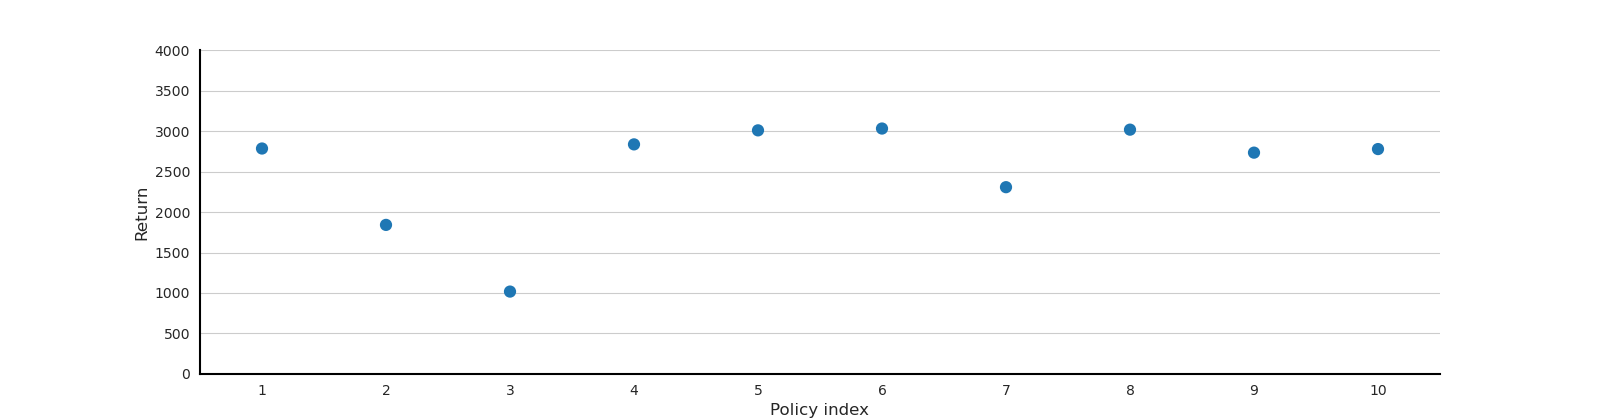
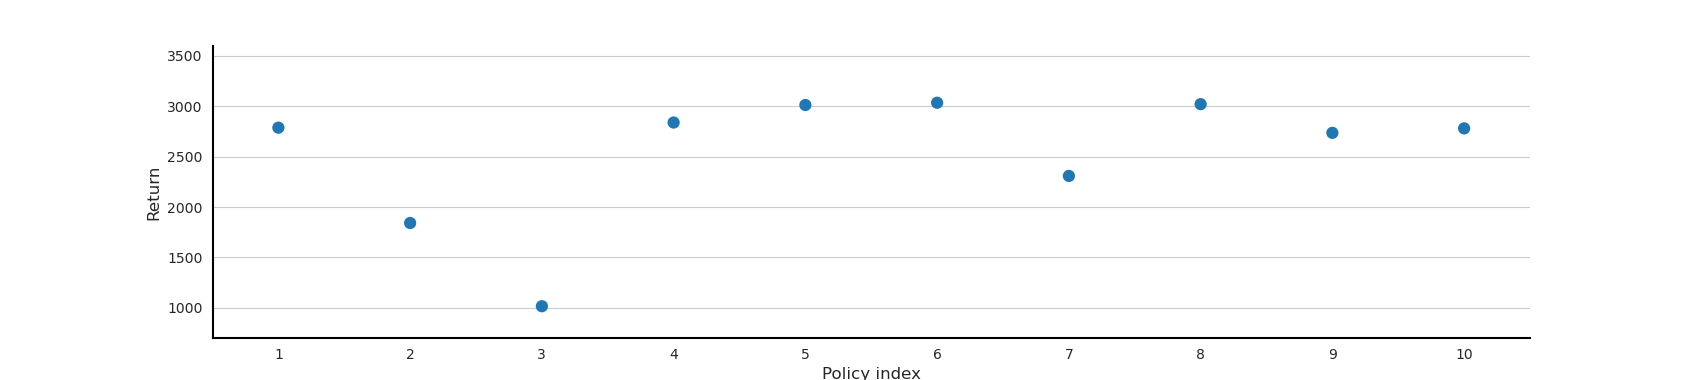
add new fig

diff --git a/script_plot/visualize_open_ended_solution_discovery.py b/script_plot/visualize_open_ended_solution_discovery.py
@@ -13,7 +13,7 @@ list_of_policy_id = list(range(1, 11))
 
 sns.set_style('whitegrid')
 
-fig, ax = plt.subplots(1, 1, figsize=(16, 4.2))
+fig, ax = plt.subplots(1, 1, figsize=(17, 3.8))
 sns.despine(fig, ax)
 
 sns.pointplot(
@@ -27,7 +27,7 @@ sns.pointplot(
 for _, s in ax.spines.items():
     s.set_linewidth(1.5)
     s.set_color('black')
-ax.set_ylim((0, 4000))
+ax.set_ylim((700, 3600))
 ax.set_xlabel('Policy index', fontsize=12)
 ax.set_ylabel('Return', fontsize=12)
 
